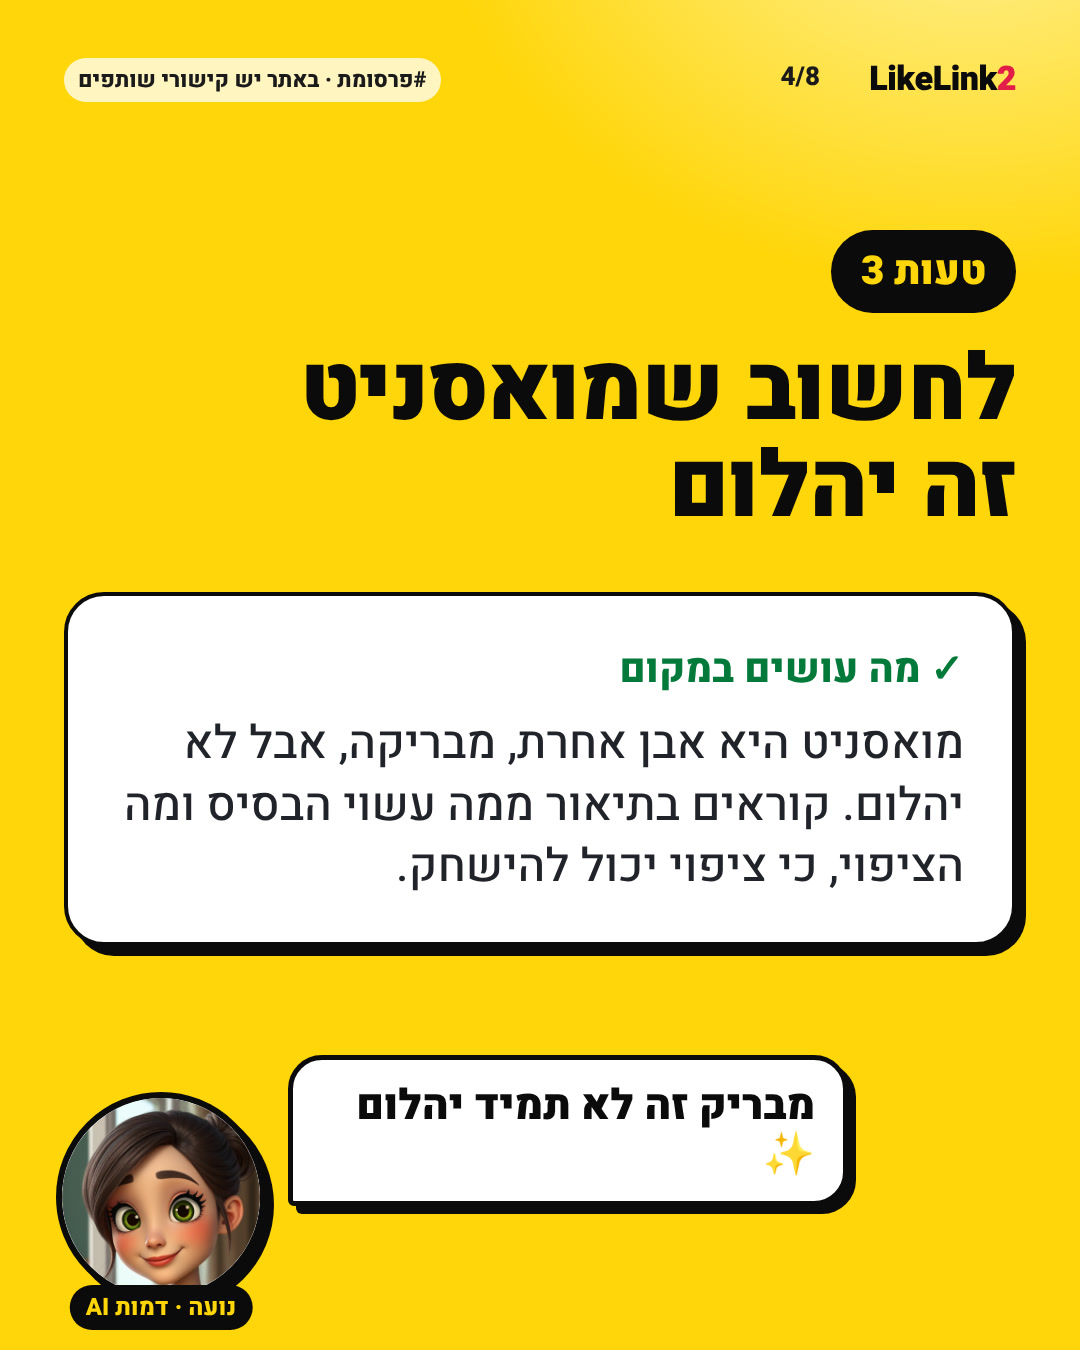
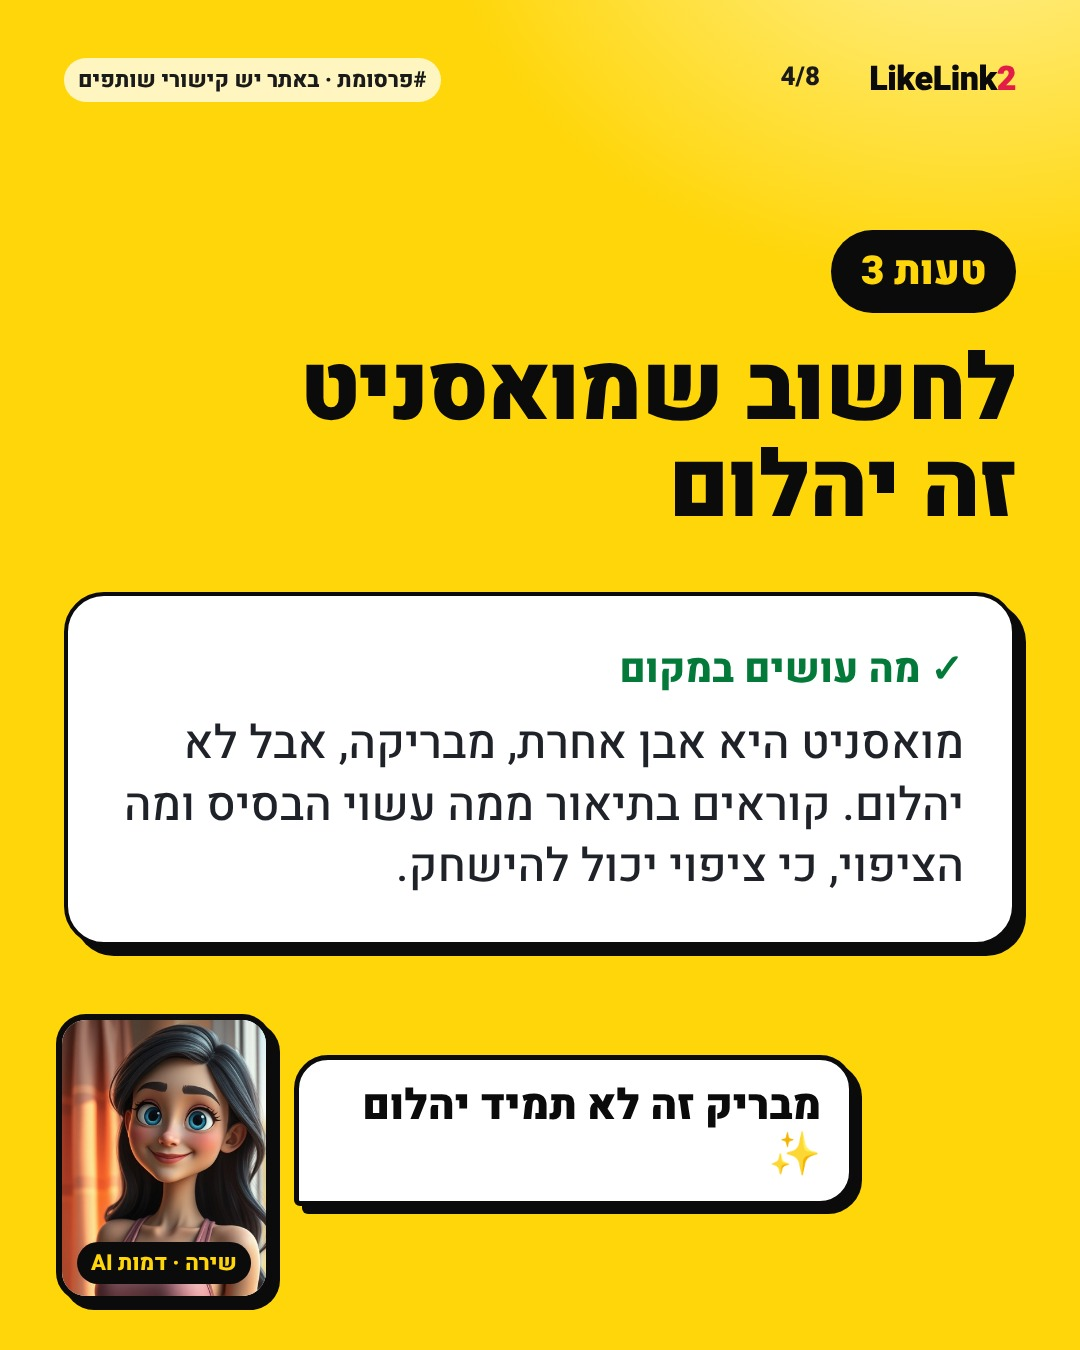
Carousels: Shira on every slide, the capybara slide removed
The owner: Shira (the tank top) stars. The radar carousel loses its capybara
slide (Israeli shops already sell capybara squishies; the radar measured only
Hebrew searches) and is now 7 slides; captions name Shira as the AI character.
TalkSlides: no 'מסבירה' label, a bigger window for her, the word she is saying
in red, no header; the CTA slide is each reel's last.

Claude-Session: https://claude.ai/code/session_01XDTEoWBCi91KkS6cwp6QZX

diff --git a/marketing/remotion/src/TalkSlides.tsx b/marketing/remotion/src/TalkSlides.tsx
@@ -45,10 +45,10 @@ export const talkSeconds = (p: TalkProps) => timeline(p.lines).total;
 
 /** The words in bubbles of up to three (a new bubble after a sentence ends). */
 const chunks = (words: Word[]) => {
-  const out: { from: number; text: string }[] = [];
+  const out: { from: number; text: string; words: Word[] }[] = [];
   let cur: Word[] = [];
   const flush = () => {
-    if (cur.length) out.push({ from: cur[0][0], text: cur.map((w) => w[2]).join(" ") });
+    if (cur.length) out.push({ from: cur[0][0], text: cur.map((w) => w[2]).join(" "), words: cur });
     cur = [];
   };
   for (const w of words) {
@@ -59,8 +59,8 @@ const chunks = (words: Word[]) => {
   return out;
 };
 
-const SLIDE = { x: 43, y: 170, w: 994, h: 1242 };
-const WIN = { x: 52, y: 1112, w: 360, h: 480 };
+const SLIDE = { x: 96, y: 150, w: 888, h: 1110 };
+const WIN = { x: 40, y: 1010, w: 430, h: 574 };
 
 const Mic: React.FC<{ local: number }> = ({ local }) => {
   const rise = interpolate(local, [0, 9], [90, 0], { ...clamp, easing: Easing.out(Easing.back(1.6)) });
@@ -107,7 +107,6 @@ const Presenter: React.FC<{ line: TalkLine; at: number; dark: boolean }> = ({ li
   const pop = interpolate(local, [0, 6, 11], [0.82, 1.05, 1], { ...clamp, easing: Easing.out(Easing.cubic) });
   const tilt = interpolate(local, [0, 6, 12], [-5, 2, 0], clamp);
   const edge = dark ? SUN : INK;
-  const dot = 0.55 + 0.45 * Math.abs(Math.sin(local / 7));
   const vid = Math.max(2, Math.floor(line.seconds * FPS));
   return (
     <>
@@ -137,27 +136,6 @@ const Presenter: React.FC<{ line: TalkLine; at: number; dark: boolean }> = ({ li
             <OffthreadVideo muted src={staticFile(line.video)} style={VIDEO} />
           </Freeze>
         </Sequence>
-        <div
-          style={{
-            position: "absolute",
-            top: 14,
-            right: 14,
-            display: "flex",
-            alignItems: "center",
-            gap: 8,
-            padding: "6px 14px",
-            borderRadius: 999,
-            background: RED,
-            color: "#fff",
-            fontFamily: FONT,
-            fontWeight: 900,
-            fontSize: 24,
-            direction: "rtl",
-          }}
-        >
-          <span style={{ width: 12, height: 12, borderRadius: 99, background: "#fff", opacity: dot }} />
-          מסבירה
-        </div>
       </div>
       <Mic local={local} />
       <div
@@ -194,7 +172,7 @@ const Bubble: React.FC<{ line: TalkLine; at: number; dark: boolean }> = ({ line,
   const local = (t - parts[i].from) * FPS;
   const edge = dark ? SUN : INK;
   return (
-    <div style={{ position: "absolute", left: WIN.x + WIN.w + 36, right: 40, top: 1436, display: "flex", justifyContent: "flex-start", direction: "ltr", zIndex: 8 }}>
+    <div style={{ position: "absolute", left: WIN.x + WIN.w + 34, right: 36, top: 1300, display: "flex", justifyContent: "flex-start", direction: "ltr", zIndex: 8 }}>
       <div
         style={{
           direction: "rtl",
@@ -213,7 +191,12 @@ const Bubble: React.FC<{ line: TalkLine; at: number; dark: boolean }> = ({ line,
           transformOrigin: "0% 100%",
         }}
       >
-        {parts[i].text}
+        {parts[i].words.map((w, j) => (
+          <span key={j} style={{ color: t >= w[0] && (j === parts[i].words.length - 1 || t < parts[i].words[j + 1][0]) ? RED : INK }}>
+            {w[2]}
+            {j < parts[i].words.length - 1 ? " " : ""}
+          </span>
+        ))}
       </div>
     </div>
   );
@@ -245,9 +228,11 @@ export const TalkSlides: React.FC<TalkProps> = (p) => {
       {p.lines.map((l, j) => (
         <Slide key={l.id} src={l.slide} at={j === 0 ? 0 : starts[j] - 0.05} next={j < p.lines.length - 1 ? starts[j + 1] - 0.05 : undefined} first={j === 0} />
       ))}
-      <div style={{ position: "absolute", top: 96, left: 0, right: 0, display: "flex", justifyContent: "center" }}>
-        <div style={{ direction: "rtl", padding: "10px 28px", borderRadius: 999, background: dark ? SUN : INK, color: dark ? INK : SUN, fontWeight: 900, fontSize: 34 }}>{p.header}</div>
-      </div>
+      {p.header ? (
+        <div style={{ position: "absolute", top: 96, left: 0, right: 0, display: "flex", justifyContent: "center" }}>
+          <div style={{ direction: "rtl", padding: "10px 28px", borderRadius: 999, background: dark ? SUN : INK, color: dark ? INK : SUN, fontWeight: 900, fontSize: 34 }}>{p.header}</div>
+        </div>
+      ) : null}
       {p.lines.map((l, j) => (
         <Sequence key={l.id} from={Math.round(starts[j] * FPS)} durationInFrames={Math.round(((j < p.lines.length - 1 ? starts[j + 1] : total) - starts[j]) * FPS)}>
           <Presenter line={l} at={0} dark={!!l.dark} />
